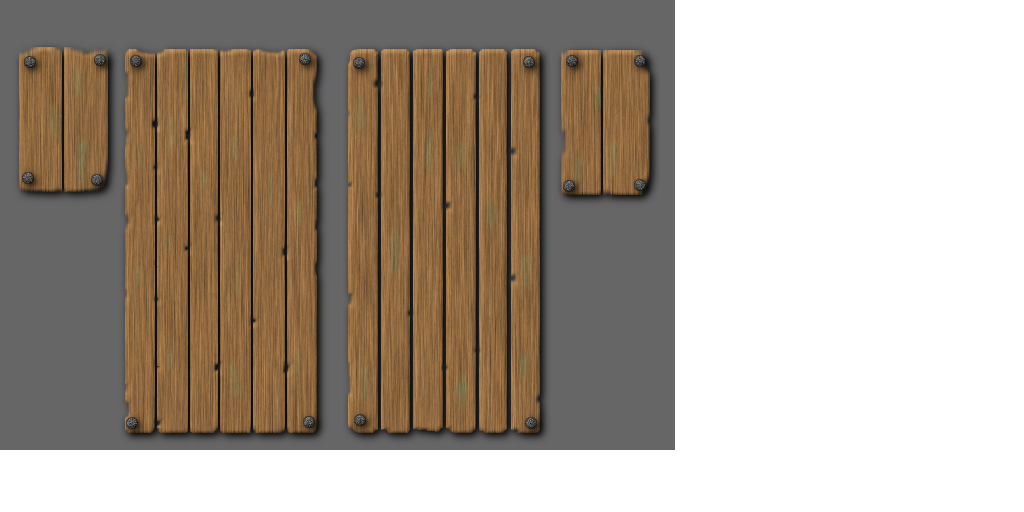
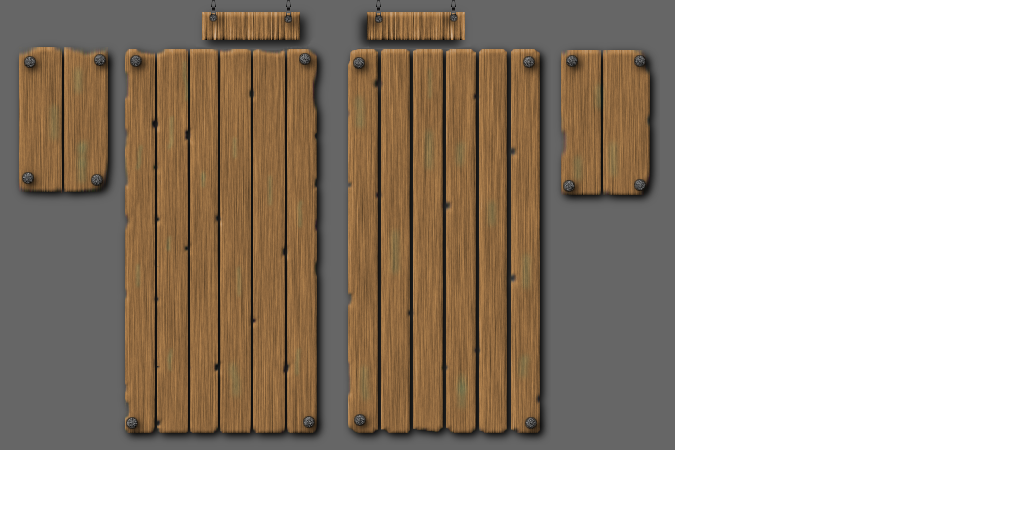
Ajout affichage score.

Changed region(s): [[0.3438, 0.0, 0.4688, 0.0938], [0.1875, 0.0, 0.3125, 0.0938]]

diff --git a/puyopuyo-android/src/com/tacoid/puyopuyo/ScoreActor.java b/puyopuyo-android/src/com/tacoid/puyopuyo/ScoreActor.java
@@ -1,0 +1,31 @@
+package com.tacoid.puyopuyo;
+
+import com.badlogic.gdx.graphics.g2d.BitmapFont;
+import com.badlogic.gdx.graphics.g2d.SpriteBatch;
+import com.badlogic.gdx.scenes.scene2d.Actor;
+import com.tacoid.puyopuyo.logic.GameLogic;
+
+public class ScoreActor extends Actor {
+	private GameLogic logic;
+	private BitmapFont font;
+	
+
+	public ScoreActor(GameLogic logic) {
+		this.logic = logic;
+		font = new BitmapFont();
+	}
+
+	@Override
+	public void draw(SpriteBatch batch, float alpha) {
+		String score = String.valueOf(logic.getScore());
+		font.draw(batch, score, 280 - font.getBounds(String.valueOf(logic.getScore())).width, 430);
+	}
+
+	@Override
+	public Actor hit(float arg0, float arg1) {
+		// TODO Auto-generated method stub
+		return null;
+	}
+	
+	
+}

diff --git a/puyopuyo-android/src/com/tacoid/puyopuyo/GameScreen.java b/puyopuyo-android/src/com/tacoid/puyopuyo/GameScreen.java
@@ -178,6 +178,7 @@ public class GameScreen implements Screen {
 
 		gridActor = new GridActor(gameLogic);
 		NextPieceActor nextPieceActor = new NextPieceActor(gameLogic);
+		ScoreActor scoreActor = new ScoreActor(gameLogic);
 		
 		TextureRegion backgroundRegion = new TextureRegion(PuyoPuyo.getInstance().manager.get("images/fond.png", Texture.class), VIRTUAL_WIDTH, VIRTUAL_HEIGHT);
 		Image background = new Image(backgroundRegion);
@@ -185,6 +186,7 @@ public class GameScreen implements Screen {
 		stage.addActor(background);
 		stage.addActor(gridActor);
 		stage.addActor(nextPieceActor);
+		stage.addActor(scoreActor);
 		stage.addActor(new LeftButton());
 		stage.addActor(new RightButton());
 		stage.addActor(new RotateLeftButton());

diff --git a/puyopuyo-android/src/com/tacoid/puyopuyo/logic/GameLogic.java b/puyopuyo-android/src/com/tacoid/puyopuyo/logic/GameLogic.java
@@ -367,4 +367,8 @@ public class GameLogic {
 	public State getState() {
 		return state;
 	}
+	
+	public int getScore() {
+		return score;
+	}
 }
